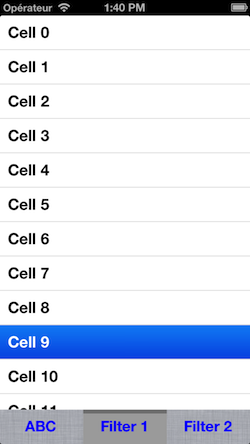
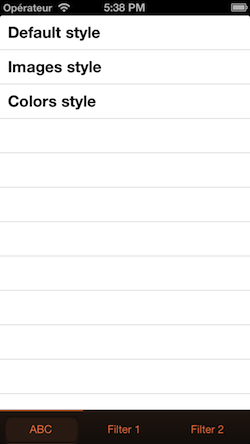
New properties and style

diff --git a/Classes/DMFilterView.m b/Classes/DMFilterView.m
@@ -7,6 +7,7 @@
 //
 
 #import "DMFilterView.h"
+#import <QuartzCore/QuartzCore.h>
 
 const CGFloat kFilterViewHeight = 44.0;
 const CGFloat kAnimationSpeed = 0.20;
@@ -36,7 +37,6 @@ const CGFloat kAnimationSpeed = 0.20;
         _strings = [strings mutableCopy];
         _containerView = contrainerView;
         _backgroundView = [[UIImageView alloc]initWithFrame:self.bounds];
-        [_backgroundView setImage:[UIImage imageNamed:@"tabbar"]];
         [self addSubview:self.backgroundView];
         CGFloat x = 0.0;
         CGFloat buttonWidth = self.frame.size.width/strings.count;
@@ -46,7 +46,6 @@ const CGFloat kAnimationSpeed = 0.20;
                                                                           buttonWidth,
                                                                           self.frame.size.height)];
         _selectedBackgroundImageView = [[UIImageView alloc]initWithFrame:self.selectedBackgroundView.frame];
-        [_selectedBackgroundImageView setImage:[UIImage imageNamed:@"tabbar_select"]];
         [self.selectedBackgroundView addSubview:self.selectedBackgroundImageView];
         _selectedTopBackgroundView = [[UIView alloc]initWithFrame:CGRectMake(0,
                                                                              0,
@@ -62,12 +61,6 @@ const CGFloat kAnimationSpeed = 0.20;
                                         buttonWidth,
                                         self.frame.size.height)];
             [button setTitle:string forState:UIControlStateNormal];
-            UIColor *mColor = [UIColor colorWithRed:240/255.0
-                                              green:130/255.0
-                                               blue:76/255.0
-                                              alpha:1.0];
-            [button setTitleColor:mColor forState:UIControlStateNormal];
-            [button.titleLabel setFont:[UIFont systemFontOfSize:14]];
             [button addTarget:self
                        action:@selector(onButton:)
              forControlEvents:UIControlEventTouchUpInside];
@@ -76,6 +69,7 @@ const CGFloat kAnimationSpeed = 0.20;
             tag += 1;
         }
     }
+    [self applyDefaultStyle];
     return self;
 }
 
@@ -85,6 +79,17 @@ const CGFloat kAnimationSpeed = 0.20;
     if (!self.superview) {
         [self.containerView addSubview:self];   
     }
+}
+
+- (void)applyDefaultStyle
+{
+    //Default ugly style
+    [self setBackgroundColor:[UIColor lightGrayColor]];
+    [self setSelectedItemBackgroundColor:[UIColor darkGrayColor]];
+    [self setSelectedItemTopBackgroundColor:[UIColor blueColor]];
+    [self setTitlesColor:[UIColor blackColor]];
+    [self setTitleInsets:UIEdgeInsetsMake(0, 0, 0, 0)];
+    [self setTitlesFont:[UIFont systemFontOfSize:14]];
 }
 
 - (void)hide:(BOOL)hide animated:(BOOL)animated animationCompletion:(void (^)(void))completion
@@ -179,45 +184,52 @@ const CGFloat kAnimationSpeed = 0.20;
 - (void)setBackgroundImage:(UIImage *)backgroundImage
 {
     _backgroundImage = backgroundImage;
-    [self.backgroundView setHidden:NO];
     [self.backgroundView setImage:_backgroundImage];
 }
 
 - (void)setBackgroundColor:(UIColor *)backgroundColor
 {
-    [self.backgroundView setHidden:YES];
+    self.backgroundView.image = nil;
     [super setBackgroundColor:backgroundColor];
 }
 
-- (void)setSelectedBackgroundImage:(UIImage *)selectedBackgroundImage
+- (void)setSelectedItemBackgroundImage:(UIImage *)selectedItemBackgroundImage
 {
-    self.selectedBackgroundColor = nil;
-    [self.selectedTopBackgroundView setHidden:YES];
-    [self.selectedBackgroundImageView setHidden:NO];
-    [self.selectedBackgroundImageView setImage:selectedBackgroundImage];
-    _selectedBackgroundImage = selectedBackgroundImage;
+    self.selectedItemBackgroundColor = nil;
+    self.selectedTopBackgroundView.backgroundColor = nil;
+    [self.selectedBackgroundImageView setImage:selectedItemBackgroundImage];
+    _selectedItemBackgroundImage = selectedItemBackgroundImage;
 }
 
-- (void)setSelectedBackgroundColor:(UIColor *)selectedBackgroundColor
+- (void)setSelectedItemBackgroundColor:(UIColor *)selectedItemBackgroundColor
 {
-    [self.selectedBackgroundImageView setHidden:YES];
-    [self.selectedBackgroundView setBackgroundColor:selectedBackgroundColor];
-    _selectedBackgroundColor = selectedBackgroundColor;
+    self.selectedBackgroundImageView.image = nil;
+    [self.selectedBackgroundView setBackgroundColor:selectedItemBackgroundColor];
+    _selectedItemBackgroundColor = selectedItemBackgroundColor;
 }
 
-- (void)setSelectedTopBackgroundColor:(UIColor *)selectedTopBackgroundColor
+- (void)setSelectedItemTopBackgroundColor:(UIColor *)selectedItemTopBackgroundColor
 {
-    [self.selectedTopBackgroundView setHidden:NO];
-    [self.selectedTopBackgroundView setBackgroundColor:selectedTopBackgroundColor];
-    _selectedTopBackgroundColor = selectedTopBackgroundColor;
+    [self.selectedTopBackgroundView setBackgroundColor:selectedItemTopBackgroundColor];
+    _selectedItemTopBackgroundColor = selectedItemTopBackgroundColor;
 }
 
-- (void)setSelectedTopBackroundColorHeight:(CGFloat)selectedTopBacktroundColorHeight
+- (void)setSelectedItemTopBackroundColorHeight:(CGFloat)selectedItemTopBacktroundColorHeight
 {
     CGRect frame = self.selectedTopBackgroundView.frame;
-    frame.size.height = selectedTopBacktroundColorHeight;
+    frame.size.height = selectedItemTopBacktroundColorHeight;
     [self.selectedTopBackgroundView setFrame:frame];
-    _selectedTopBackroundColorHeight = selectedTopBacktroundColorHeight;
+    _selectedItemTopBackroundColorHeight = selectedItemTopBacktroundColorHeight;
+}
+
+- (void)setTitleInsets:(UIEdgeInsets)titleInsets
+{
+    for (UIButton *button in self.subviews) {
+        if ([button isKindOfClass:[UIButton class]]) {
+            [button setTitleEdgeInsets:titleInsets];
+        }
+    }
+    _titleInsets = titleInsets;
 }
 
 #pragma mark - buttons style
@@ -261,6 +273,19 @@ const CGFloat kAnimationSpeed = 0.20;
                 break;
             }
         }
+    }
+}
+
+#pragma mark - Pan gesture
+- (void)adjustAnchorPointForGestureRecognizer:(UIGestureRecognizer *)gestureRecognizer
+{
+    if (gestureRecognizer.state == UIGestureRecognizerStateBegan) {
+        UIView *piece = gestureRecognizer.view;
+        CGPoint locationInView = [gestureRecognizer locationInView:piece];
+        CGPoint locationInSuperview = [gestureRecognizer locationInView:piece.superview];
+        
+        piece.layer.anchorPoint = CGPointMake(locationInView.x / piece.bounds.size.width, locationInView.y / piece.bounds.size.height);
+        piece.center = locationInSuperview;
     }
 }
 

diff --git a/DMFilterView/DMViewController.m b/DMFilterView/DMViewController.m
@@ -9,9 +9,6 @@
 #import "DMViewController.h"
 
 @interface DMViewController ()
-{
-    BOOL _isColors;
-}
 @end
 
 @implementation DMViewController
@@ -19,7 +16,6 @@
 - (void)viewDidLoad
 {
     [super viewDidLoad];
-    _isColors = NO;
     _tableView = [[UITableView alloc]initWithFrame:self.view.frame style:UITableViewStylePlain];
     [self.tableView setDelegate:self];
     [self.tableView setDataSource:self];
@@ -27,6 +23,7 @@
     _filterView = [[DMFilterView alloc]initWithStrings:@[@"ABC", @"Filter 1", @"Filter 2"] containerView:self.view];
     [self.filterView attachToContainerView];
     [self.filterView setDelegate:self];
+    
 	// Do any additional setup after loading the view, typically from a nib.
 }
 
@@ -43,7 +40,7 @@
 }
 
 - (NSInteger)tableView:(UITableView *)tableView numberOfRowsInSection:(NSInteger)section {
-    return 50;
+    return 3;
 }
 
 - (UITableViewCell *)tableView:(UITableView *)tableView cellForRowAtIndexPath:(NSIndexPath *)indexPath {
@@ -54,7 +51,15 @@
     if(cell == nil) {
         cell = [[UITableViewCell alloc] initWithStyle:UITableViewCellStyleDefault reuseIdentifier:cellIdentifier];
     }
-    cell.textLabel.text = [NSString stringWithFormat:@"Cell %d", indexPath.row];
+    if (indexPath.row == 0) {
+        cell.textLabel.text = @"Default style";
+    }
+    else if (indexPath.row == 1){
+        cell.textLabel.text = @"Images style";
+    }
+    else if (indexPath.row == 2){
+        cell.textLabel.text = @"Colors style";
+    }
     
     return cell;
 }
@@ -63,8 +68,12 @@
 
 - (void)tableView:(UITableView *)tableView didSelectRowAtIndexPath:(NSIndexPath *)indexPath
 {
-    if (_isColors){
-        [self.filterView setSelectedBackgroundImage:[UIImage imageNamed:@"tabbar_select"]];
+    [tableView deselectRowAtIndexPath:indexPath animated:YES];
+    if (indexPath.row == 0) {
+        [self.filterView applyDefaultStyle];
+    }
+    else if (indexPath.row == 1){
+        [self.filterView setSelectedItemBackgroundImage:[UIImage imageNamed:@"tabbar_select"]];
         [self.filterView setBackgroundImage:[UIImage imageNamed:@"tabbar"]];
         UIColor *mColor = [UIColor colorWithRed:240/255.0
                                           green:130/255.0
@@ -72,16 +81,17 @@
                                           alpha:1.0];
         [self.filterView setTitlesColor:mColor];
         [self.filterView setTitlesFont:[UIFont systemFontOfSize:14]];
+        [self.filterView setTitleInsets:UIEdgeInsetsMake(7, 0, 0, 0)];
     }
-    else{
-        [self.filterView setSelectedTopBackgroundColor:[UIColor grayColor]];
-        [self.filterView setSelectedTopBackroundColorHeight:5];
-        [self.filterView setSelectedBackgroundColor:[UIColor lightGrayColor]];
+    else if (indexPath.row == 2){
+        [self.filterView setSelectedItemTopBackgroundColor:[UIColor grayColor]];
+        [self.filterView setSelectedItemTopBackroundColorHeight:5];
+        [self.filterView setSelectedItemBackgroundColor:[UIColor lightGrayColor]];
         [self.filterView setBackgroundColor:[UIColor underPageBackgroundColor]];
         [self.filterView setTitlesFont:[UIFont boldSystemFontOfSize:19]];
         [self.filterView setTitlesColor:[UIColor blueColor]];
+        [self.filterView setTitleInsets:UIEdgeInsetsMake(0, 0, 0, 0)];
     }
-    _isColors =! _isColors;
 }
 
 #pragma mark - ScrollView delegate

diff --git a/Classes/DMFilterView.h b/Classes/DMFilterView.h
@@ -37,22 +37,29 @@ extern const CGFloat kFilterViewHeight;
 @property (nonatomic) NSInteger selectedIndex;
 @property (nonatomic, unsafe_unretained) id<DMFilterViewDelegate>delegate;
 @property (nonatomic, readonly, assign) UIView *containerView;
-//You can set a background imagen the background image will remove the background color.
+//You can set a background image, the background image will remove the background color.
 @property (nonatomic, strong) UIImage *backgroundImage;
 //The selected background image behind the selected button.
 //The selected background color is set to nil if you set an image
-@property (nonatomic, strong) UIImage *selectedBackgroundImage;
+@property (nonatomic, strong) UIImage *selectedItemBackgroundImage;
 //The selected background color behind the selected button
-@property (nonatomic, strong) UIColor *selectedBackgroundColor;
+//The selected background image is set to nil if you set a color
+@property (nonatomic, strong) UIColor *selectedItemBackgroundColor;
 //The selected background color at the top of the selected item
 //Is set to nil if you set a selected backround image
-@property (nonatomic, strong) UIColor *selectedTopBackgroundColor;
+@property (nonatomic, strong) UIColor *selectedItemTopBackgroundColor;
 //The selected background top color height;
-@property (nonatomic) CGFloat selectedTopBackroundColorHeight;
+//Default value is 5
+@property (nonatomic) CGFloat selectedItemTopBackroundColorHeight;
 //The buttons title color
 @property (nonatomic, strong) UIColor *titlesColor;
 //The buttons font
 @property (nonatomic, strong) UIFont *titlesFont;
+//The inset of the title
+@property (nonatomic) UIEdgeInsets titleInsets;
+
+//Is the selected item view is draggable ?
+@property (nonatomic, getter = isDraggable) BOOL draggable;
 
 /**
 Designated initializer
@@ -63,8 +70,9 @@ Designated initializer
  */
 - (id)initWithStrings:(NSArray *)strings
        containerView:(UIView *)contrainerView;
-//You should called this method once to attach the filter view to the bottom of the view you passed
-//in the init method
+/**You should called this method once to attach the filter view to the 
+ bottom of the view you passed in the init method
+ */
 - (void)attachToContainerView;
 /**
 Hide and show the filter view, with or without animation
@@ -75,6 +83,14 @@ Hide and show the filter view, with or without animation
 - (void)hide:(BOOL)hide
     animated:(BOOL)animated
     animationCompletion:(void (^)(void))completion;
+
+/**
+ Provide a basic default style, this style is automaticcaly set after yout initialized DMFilter
+ If for any reasons you want to restore the default style, you can use this method
+ Basically reset images, font and insets property
+ */
+- (void)applyDefaultStyle;
+
 /**
  @param index the button index
  @return the title of the button at the given index
